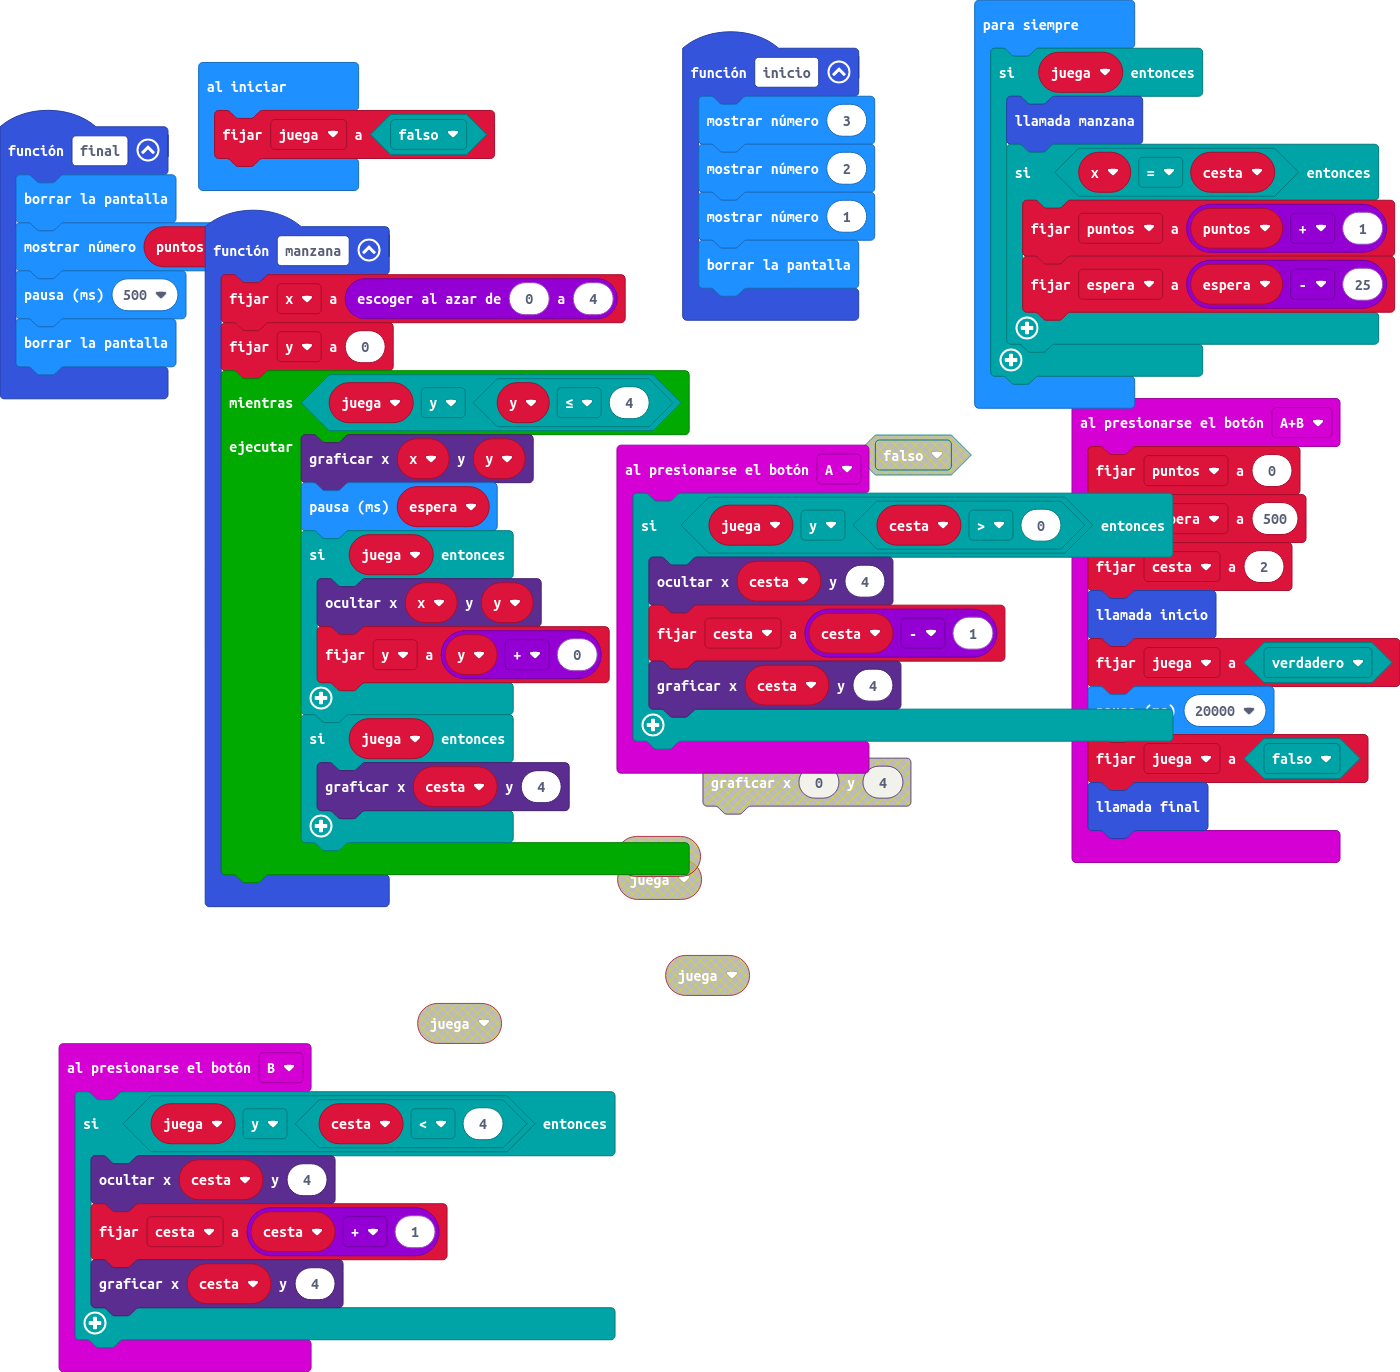
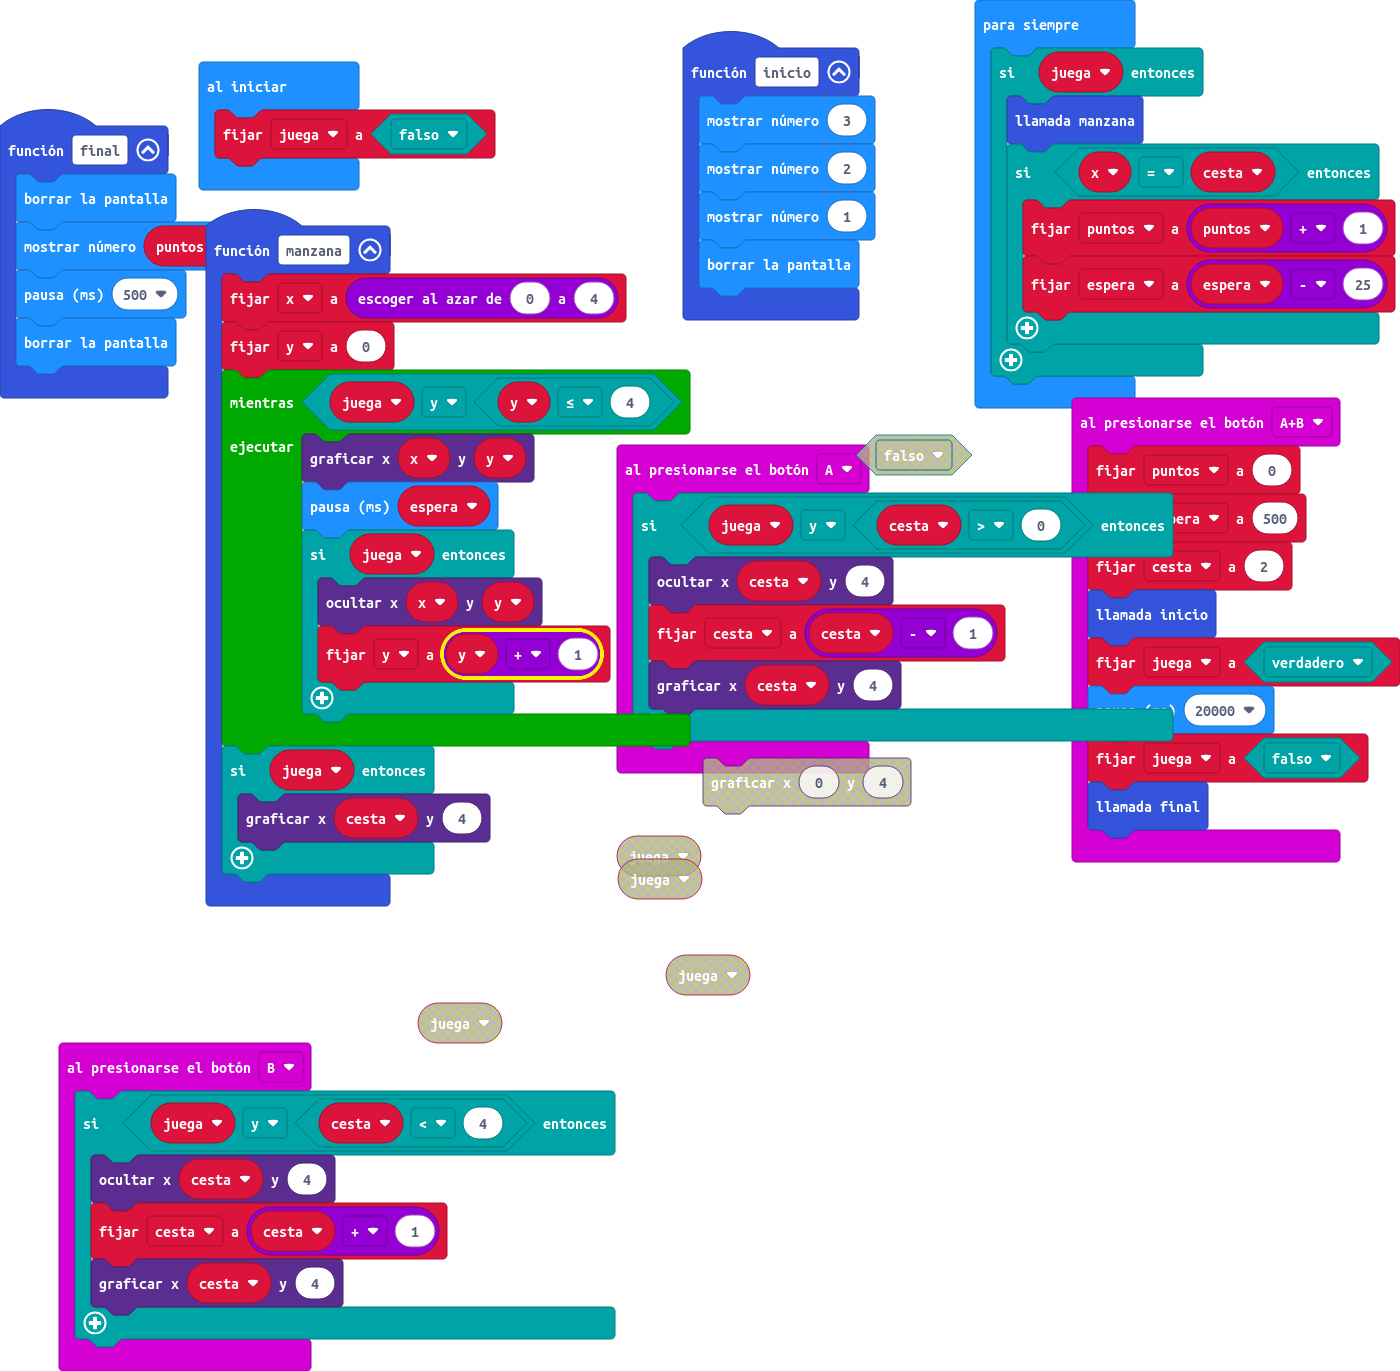
Actualizar main.blocks, main.ts

diff --git a/main.ts b/main.ts
@@ -42,11 +42,11 @@ function manzana () {
         basic.pause(espera)
         if (juega) {
             led.unplot(x, y)
-            y = y + 0
+            y = y + 1
         }
-        if (juega) {
-            led.plot(cesta, 4)
-        }
+    }
+    if (juega) {
+        led.plot(cesta, 4)
     }
 }
 let y = 0
